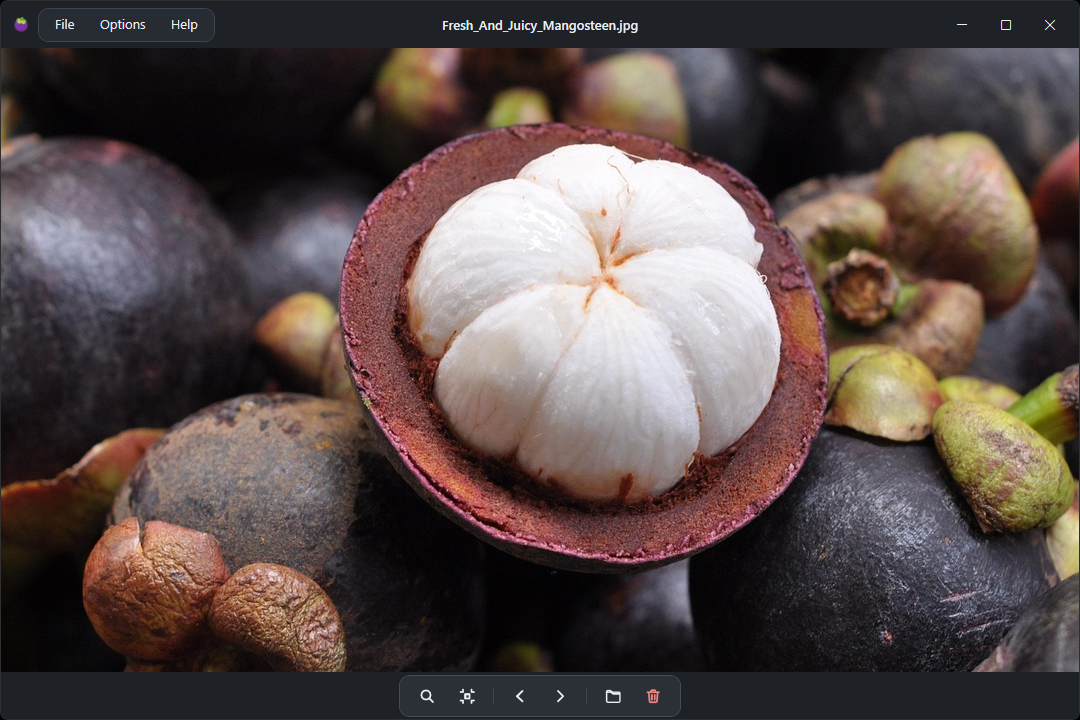
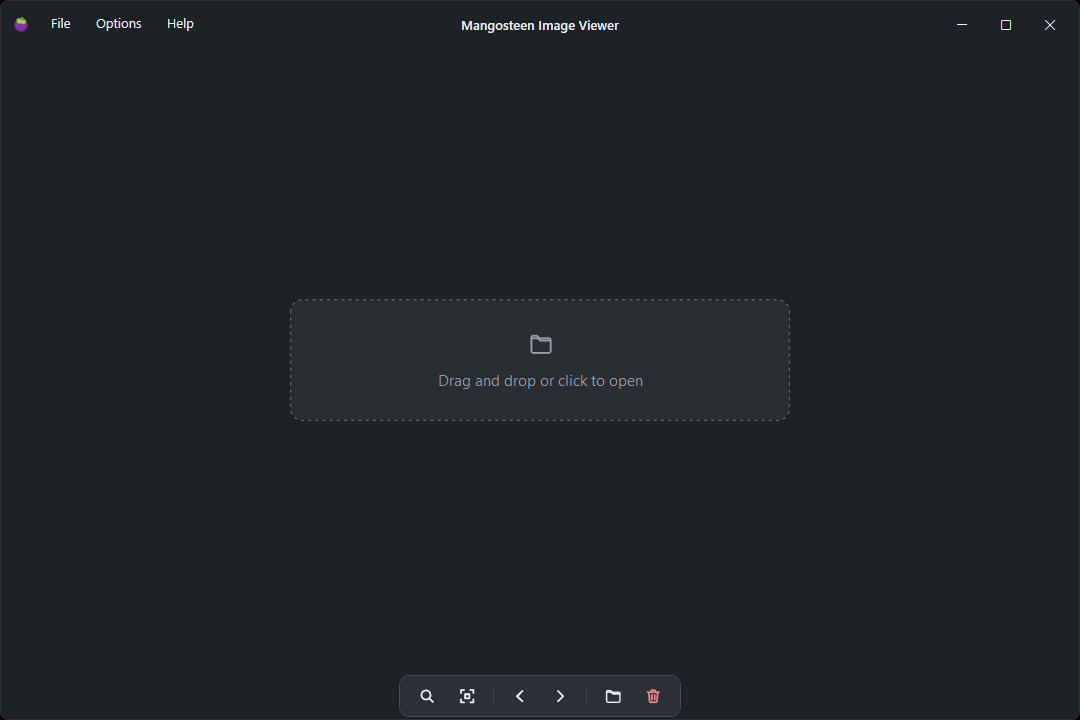
Polish README screenshots and menu chrome

diff --git a/src/Mangosteen/MainWindow.xaml b/src/Mangosteen/MainWindow.xaml
@@ -431,90 +431,83 @@
                            Height="18"
                            Margin="4,0,8,0"
                            Source="Assets/mangosteen.ico" />
-                    <Border Height="34"
-                            Padding="3,0"
-                            Background="{DynamicResource ChromeSurfaceBackground}"
-                            BorderBrush="{DynamicResource ChromeSurfaceBorder}"
-                            BorderThickness="1"
-                            CornerRadius="10">
-                        <Menu x:Name="MainMenu"
-                              Height="32"
-                              Background="Transparent"
-                              Foreground="{DynamicResource TextPrimary}"
-                              BorderThickness="0"
-                              shell:WindowChrome.IsHitTestVisibleInChrome="True">
-                            <MenuItem x:Name="FileMenuItem">
-                                <MenuItem x:Name="OpenMenuItem"
-                                          Click="OpenMenuItem_Click" />
-                                <MenuItem x:Name="DeleteMenuItem"
-                                          Click="DeleteMenuItem_Click" />
-                                <Separator />
-                                <MenuItem x:Name="ExitMenuItem"
-                                          Click="ExitMenuItem_Click" />
-                            </MenuItem>
-                            <MenuItem x:Name="OptionsMenuItem">
-                                <MenuItem x:Name="SamplingMenuItem">
-                                    <MenuItem x:Name="SmoothSamplingMenuItem"
-                                              IsCheckable="True"
-                                              IsChecked="True"
-                                              Click="SmoothSamplingMenuItem_Click" />
-                                    <MenuItem x:Name="NearestSamplingMenuItem"
-                                              IsCheckable="True"
-                                              Click="NearestSamplingMenuItem_Click" />
-                                </MenuItem>
-                                <MenuItem x:Name="PreloadEnabledMenuItem"
+                    <Menu x:Name="MainMenu"
+                          Height="34"
+                          Background="Transparent"
+                          Foreground="{DynamicResource TextPrimary}"
+                          BorderThickness="0"
+                          shell:WindowChrome.IsHitTestVisibleInChrome="True">
+                        <MenuItem x:Name="FileMenuItem">
+                            <MenuItem x:Name="OpenMenuItem"
+                                      Click="OpenMenuItem_Click" />
+                            <MenuItem x:Name="DeleteMenuItem"
+                                      Click="DeleteMenuItem_Click" />
+                            <Separator />
+                            <MenuItem x:Name="ExitMenuItem"
+                                      Click="ExitMenuItem_Click" />
+                        </MenuItem>
+                        <MenuItem x:Name="OptionsMenuItem">
+                            <MenuItem x:Name="SamplingMenuItem">
+                                <MenuItem x:Name="SmoothSamplingMenuItem"
                                           IsCheckable="True"
                                           IsChecked="True"
-                                          Click="PreloadEnabledMenuItem_Click" />
-                                <MenuItem x:Name="PreloadMemoryBudgetMenuItem">
-                                    <MenuItem IsCheckable="True"
-                                              Header="1 GB"
-                                              Tag="1"
-                                              Click="PreloadBudgetMenuItem_Click" />
-                                    <MenuItem IsCheckable="True"
-                                              Header="2 GB"
-                                              Tag="2"
-                                              IsChecked="True"
-                                              Click="PreloadBudgetMenuItem_Click" />
-                                    <MenuItem IsCheckable="True"
-                                              Header="5 GB"
-                                              Tag="5"
-                                              Click="PreloadBudgetMenuItem_Click" />
-                                    <MenuItem IsCheckable="True"
-                                              Header="10 GB"
-                                              Tag="10"
-                                              Click="PreloadBudgetMenuItem_Click" />
-                                    <MenuItem IsCheckable="True"
-                                              Header="15 GB"
-                                              Tag="15"
-                                              Click="PreloadBudgetMenuItem_Click" />
-                                </MenuItem>
-                                <MenuItem x:Name="PreloadAggressivenessMenuItem">
-                                    <MenuItem x:Name="ConservativePreloadMenuItem"
-                                              IsCheckable="True"
-                                              Tag="Conservative"
-                                              Click="PreloadAggressivenessMenuItem_Click" />
-                                    <MenuItem x:Name="BalancedPreloadMenuItem"
-                                              IsCheckable="True"
-                                              Tag="Balanced"
-                                              IsChecked="True"
-                                              Click="PreloadAggressivenessMenuItem_Click" />
-                                    <MenuItem x:Name="AggressivePreloadMenuItem"
-                                              IsCheckable="True"
-                                              Tag="Aggressive"
-                                              Click="PreloadAggressivenessMenuItem_Click" />
-                                </MenuItem>
-                                <Separator />
-                                <MenuItem x:Name="DarkModeMenuItem"
+                                          Click="SmoothSamplingMenuItem_Click" />
+                                <MenuItem x:Name="NearestSamplingMenuItem"
                                           IsCheckable="True"
-                                          Click="DarkModeMenuItem_Click" />
+                                          Click="NearestSamplingMenuItem_Click" />
                             </MenuItem>
-                            <MenuItem x:Name="HelpMenuItem">
-                                <MenuItem x:Name="OptionsHelpMenuItem"
-                                          Click="OptionsHelpMenuItem_Click" />
+                            <MenuItem x:Name="PreloadEnabledMenuItem"
+                                      IsCheckable="True"
+                                      IsChecked="True"
+                                      Click="PreloadEnabledMenuItem_Click" />
+                            <MenuItem x:Name="PreloadMemoryBudgetMenuItem">
+                                <MenuItem IsCheckable="True"
+                                          Header="1 GB"
+                                          Tag="1"
+                                          Click="PreloadBudgetMenuItem_Click" />
+                                <MenuItem IsCheckable="True"
+                                          Header="2 GB"
+                                          Tag="2"
+                                          IsChecked="True"
+                                          Click="PreloadBudgetMenuItem_Click" />
+                                <MenuItem IsCheckable="True"
+                                          Header="5 GB"
+                                          Tag="5"
+                                          Click="PreloadBudgetMenuItem_Click" />
+                                <MenuItem IsCheckable="True"
+                                          Header="10 GB"
+                                          Tag="10"
+                                          Click="PreloadBudgetMenuItem_Click" />
+                                <MenuItem IsCheckable="True"
+                                          Header="15 GB"
+                                          Tag="15"
+                                          Click="PreloadBudgetMenuItem_Click" />
                             </MenuItem>
-                        </Menu>
-                    </Border>
+                            <MenuItem x:Name="PreloadAggressivenessMenuItem">
+                                <MenuItem x:Name="ConservativePreloadMenuItem"
+                                          IsCheckable="True"
+                                          Tag="Conservative"
+                                          Click="PreloadAggressivenessMenuItem_Click" />
+                                <MenuItem x:Name="BalancedPreloadMenuItem"
+                                          IsCheckable="True"
+                                          Tag="Balanced"
+                                          IsChecked="True"
+                                          Click="PreloadAggressivenessMenuItem_Click" />
+                                <MenuItem x:Name="AggressivePreloadMenuItem"
+                                          IsCheckable="True"
+                                          Tag="Aggressive"
+                                          Click="PreloadAggressivenessMenuItem_Click" />
+                            </MenuItem>
+                            <Separator />
+                            <MenuItem x:Name="DarkModeMenuItem"
+                                      IsCheckable="True"
+                                      Click="DarkModeMenuItem_Click" />
+                        </MenuItem>
+                        <MenuItem x:Name="HelpMenuItem">
+                            <MenuItem x:Name="OptionsHelpMenuItem"
+                                      Click="OptionsHelpMenuItem_Click" />
+                        </MenuItem>
+                    </Menu>
                 </StackPanel>
 
                 <StackPanel HorizontalAlignment="Right"

diff --git a/README.md b/README.md
@@ -8,20 +8,23 @@
 
 ### [Download Portable (.zip)](https://github.com/sapere-aude-incipe/mangosteen-image-viewer/releases) | [Download Installer (.exe)](https://github.com/sapere-aude-incipe/mangosteen-image-viewer/releases)
 
-Mangosteen is a simple and fast Windows image viewer inspired by the classic Windows Photo Viewer experience. It focuses on quick image navigation, smooth zooming, actual-pixel viewing, broad format support, animated GIF playback, and responsive handling of very large images.
+Mangosteen Image Viewer is a simple, fast Windows image viewer inspired by the classic Windows Photo Viewer experience. It keeps the interface quiet and focused: open an image, move through the folder, zoom, pan, inspect actual pixels, and get out of the way.
 
 ## Screenshots
 
 | Dark theme | Light theme |
 | --- | --- |
-| ![Mangosteen Image Viewer showing an image in dark theme](docs/screenshots/mangosteen-dark.png) | ![Mangosteen Image Viewer showing an image in light theme](docs/screenshots/mangosteen-light.png) |
+| ![Mangosteen Image Viewer empty state in dark theme](docs/screenshots/mangosteen-dark.png) | ![Mangosteen Image Viewer empty state in light theme](docs/screenshots/mangosteen-light.png) |
 
 ## Features
 
 - Fast previous/next folder navigation.
+- Drag and drop, click-to-open, and Open With friendly startup.
 - Mouse-wheel zoom.
 - Left-button drag panning for oversized images.
 - Actual-pixel viewing for `1:1` physical pixel mapping.
+- Show the current image in File Explorer.
+- Recycle-bin delete with confirmation.
 - Smooth or nearest-neighbor upscaling.
 - Light and dark themes.
 - Smart preloading with a configurable memory budget.
@@ -55,8 +58,8 @@ The goal is broad practical coverage for common formats such as JPEG, PNG, BMP, 
 
 Grab the newest build from the [Releases](https://github.com/sapere-aude-incipe/mangosteen-image-viewer/releases) page:
 
-- **Portable**: `Mangosteen-Portable-<version>-x64.zip` — extract anywhere and run `Mangosteen.exe`. No installation and no separate .NET runtime required.
-- **Installer**: `Mangosteen-Setup-<version>-x64.exe` — classic setup with Start menu shortcut.
+- **Portable**: `Mangosteen-Portable-<version>-x64.zip` - extract anywhere and run `Mangosteen.exe`. No installation and no separate .NET runtime required.
+- **Installer**: `Mangosteen-Setup-<version>-x64.exe` - classic setup with Start menu shortcut.
 
 The first public releases are unsigned while the project builds enough public reputation for open-source code signing.
 
@@ -111,6 +114,7 @@ This creates:
 - Left mouse drag: pan.
 - `F`: fit to window.
 - `Ctrl+O`: open an image.
+- `Del`: move the current image to the recycle bin after confirmation.
 
 ## Options
 